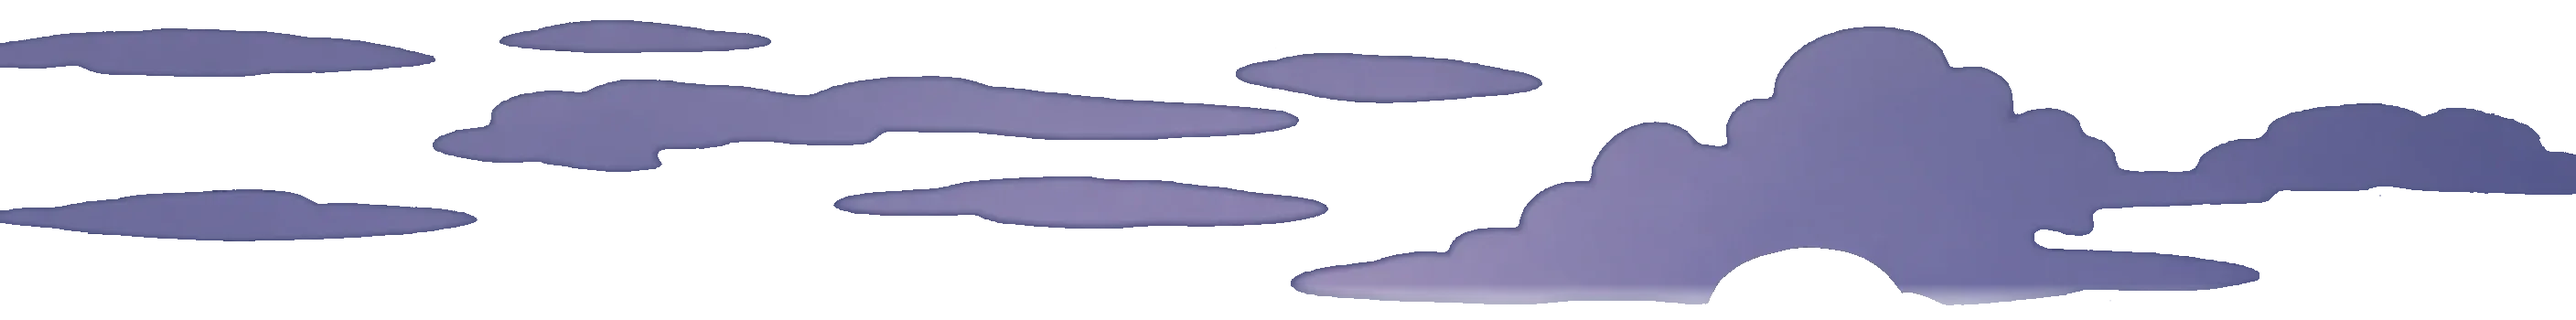
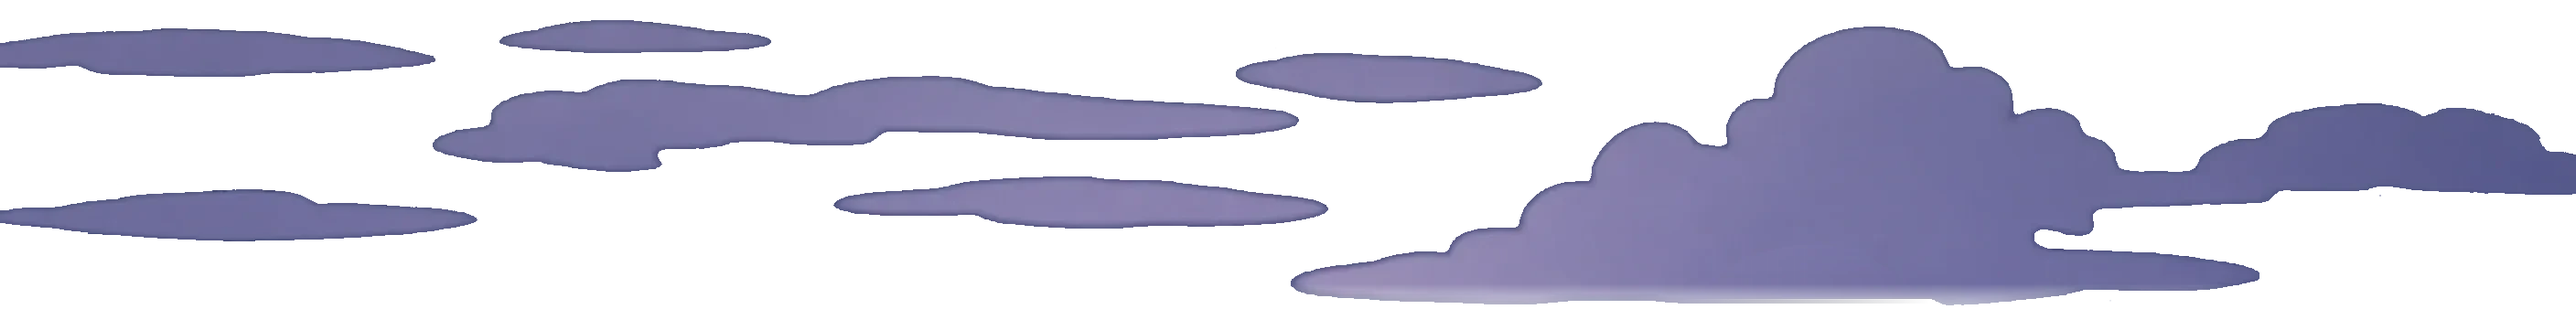
Tea room working copy, ending: the doorway's lamp comes on as the camera sets off, each stepping stone drawn once, the near garden whole on the walk-on
The veil, the room and the glow in the tea house's doorway now come on together over the first half screen of the
walk-on instead of in one 9 px step. On the way in the house plate's painted lawn and stones come down to the screen's
foot and the walk's drawn stones stay only below it, so no stone is drawn twice. Near trees and bushes keep their
walk's-end opacity until they leave the frame, and the dome cut out of the walk's cloud plate is filled.

Claude-Session: https://claude.ai/code/session_01H1qqxvg7NVfd4R6U8xEdiX

Changed region(s): [[0.6562, 0.7714, 0.75, 0.9714]]

diff --git a/public/labs/tea-room/working/assets/js/chapters/projects/scene.js b/public/labs/tea-room/working/assets/js/chapters/projects/scene.js
@@ -319,11 +319,14 @@ export function mount(host, options = {}) {
   // the doorway has come to cend, its place on the screen at the end. At e = 1 the doorway (HOUSE.hole) covers the
   // screen. state.house: where the house's plate is drawn ({ x, y, s }: its top left and its scale) and zh, look B's
   // measure of how large the house stands (diorama.js drawGarden: the plate's scale over max(W / 1700, H / 1019)).
-  let dz = 0, ZZ = 1;
+  // dm 0..1 (the door only): how far the house's painted lawn has taken over the ground in front of it. The plate's own
+  // stepping stones (the same painting as look B's sharp front) come down to the screen's foot, and the walk's drawn
+  // stones go where the plate is opaque, so each stone on the screen is drawn once.
+  let dz = 0, ZZ = 1, dm = 0, lastMask = '';
   function frame(q, time, pointer, cards, door) {
     if (!active) return state;
     if (!L) layout();
-    if (!door || !(door.e > 0 || door.c > 0)) { dz = 0; ZZ = 1; return frameAt(q, time, pointer, cards); }
+    if (!door || !(door.e > 0 || door.c > 0)) { dz = 0; ZZ = 1; dm = 0; return frameAt(q, time, pointer, cards); }
     const f0 = f, cx0 = cx, hY0 = hY;
     const k = L.kOf(clamp(q || 0)), cam = L.camAt(k), d0 = G.zHouse - cam.z;
     const sOf = (d) => f0 * HOUSE.hw / d / HOUSE.w;
@@ -334,9 +337,9 @@ export function mount(host, options = {}) {
     // the doorway's middle on the screen, from a camera d from the house (the walk's own projection, no lean)
     const at = (dd) => { const sc = sOf(dd); return [cx0 + f0 * (0 - cam.x) / dd - HOUSE.door * sc + hx * sc, hY0 + f0 * cam.y / dd - HOUSE.lawn * sc + hy * sc]; };
     const D0 = at(d0), D = at(d), cc = clamp(door.c), C = [D0[0] + (door.cend[0] - D0[0]) * cc, D0[1] + (door.cend[1] - D0[1]) * cc];
-    dz = d0 - d; ZZ = R / Rd;
+    dz = d0 - d; ZZ = R / Rd; dm = ss(1, 1.3, R);
     f = f0 * ZZ; cx = C[0] + ZZ * (cx0 - D[0]); hY = C[1] + ZZ * (hY0 - D[1]);
-    try { frameAt(q, time, null, cards); } finally { f = f0; cx = cx0; hY = hY0; dz = 0; ZZ = 1; }
+    try { frameAt(q, time, null, cards); } finally { f = f0; cx = cx0; hY = hY0; dz = 0; ZZ = 1; dm = 0; }
     state.door = { C: C, R: R, Rend: sEnd / s0 };
     return state;
   }
@@ -372,12 +375,17 @@ export function mount(host, options = {}) {
       const sx = gxs(0, d) - lean * 0.6, y = hY + f * camY / d - HOUSE.lawn * s;
       house.style.transform = 'translate3d(' + (sx - HOUSE.door * s).toFixed(1) + 'px,' + y.toFixed(1) + 'px,0) scale(' + s.toFixed(5) + ')';
       state.house = { x: sx - HOUSE.door * s, y: y, s: s, zh: s / Math.max(W / 1700, H / 1019) };
+      // (the plate's lawn: opaque to MA of its height, gone at MB; on the walk 36% and 62% (projects.css), on the way
+      // in through the door down to its foot)
+      const MA = 36 + dm * 48.8, MB = 62 + dm * 38, mk = dm > 0 ? 'linear-gradient(to bottom, #000 0, #000 ' + MA.toFixed(1) + '%, transparent ' + MB.toFixed(1) + '%), linear-gradient(to right, transparent 0, #000 22%, #000 78%, transparent 100%)' : '';
+      if (mk !== lastMask) { lastMask = mk; house.style.webkitMaskImage = mk; house.style.maskImage = mk; }
+      state.house.ma = y + MA / 100 * HOUSE.h * s; state.house.mb = y + MB / 100 * HOUSE.h * s;
     }
 
     // --- the ground: the lawn, the stepping stones, the light under the lit lantern, the petals
     const g = gx;
     // (the ground depends only on where the camera is: drawn again only when that changes)
-    const gk = k.toFixed(5) + ',' + W + ',' + H + ',' + dz.toFixed(4) + ',' + f.toFixed(2) + ',' + cx.toFixed(1) + ',' + hY.toFixed(1);
+    const gk = k.toFixed(5) + ',' + W + ',' + H + ',' + dz.toFixed(4) + ',' + f.toFixed(2) + ',' + cx.toFixed(1) + ',' + hY.toFixed(1) + ',' + dm.toFixed(4);
     if (gk !== lastKey) {
     lastKey = gk;
     g.setTransform(DPR, 0, 0, DPR, 0, 0); g.clearRect(0, 0, W, H);
@@ -422,7 +430,10 @@ export function mount(host, options = {}) {
         if (x + rx < 0 || x - rx > W || y - ry > H) continue;
         const fade = 1 - ss(FAR - 12, FAR, d);
         let warm = 0; if (lit) { const dd = Math.hypot(X - lit.lX, st.Z - lit.lZ); warm = (1 - ss(0.4, 2.6, dd)) * (1 - ss(0.3, 0.55, Math.abs(k - litI))); }
-        g.globalAlpha = fade;
+        // (on the way in, only below the plate's opaque lawn: where the plate fades out, these come in)
+        const own = dm > 0 ? 1 - dm * (1 - ss(state.house.ma + 0.8 * (state.house.mb - state.house.ma), state.house.mb, y - ry)) : 1;
+        if (own <= 0.002) continue;
+        g.globalAlpha = fade * own;
         g.fillStyle = '#0d1119'; g.beginPath(); g.ellipse(x, y + ry * 0.2, rx + 2, ry + 2, st.t * 0.2, 0, 6.3); g.fill();
         g.fillStyle = 'rgb(' + Math.round(lerp(44, 92, warm)) + ',' + Math.round(lerp(52, 80, warm)) + ',' + Math.round(lerp(64, 70, warm)) + ')';
         g.beginPath(); g.ellipse(x, y, rx, ry, st.t * 0.2, 0, 6.3); g.fill();
@@ -448,7 +459,10 @@ export function mount(host, options = {}) {
       const sc = f / d, hpx = t.h * sc, wpx = hpx * TREE.w / TREE.h;
       const sx = gxs(t.X, d) - lean * (t.row ? 0.5 : 0.25), sy = hY + camY * sc;
       const left = sx - (t.flip ? 1 - TREE.ax : TREE.ax) * wpx, topY = sy - TREE.ay * hpx;
-      const op = Math.round((1 - ss(FAR - 6, FAR + 6, d)) * ss(1.6, 3.4, d) * 50) / 50;
+      // (on the way in through the door the garden is the walk's last picture, walked into: what stood there stays
+      // whole until it has passed out of the frame, and nothing new comes up out of the lawn)
+      const op = dz > 0 ? Math.round((1 - ss(FAR - 6, FAR + 6, d + dz)) * ss(1.6, 3.4, d + dz) * ss(0.8, 1.1, d) * 50) / 50
+        : Math.round((1 - ss(FAR - 6, FAR + 6, d)) * ss(1.6, 3.4, d) * 50) / 50;
       if (op <= 0 || left > W + 10 || left + wpx < -10 || topY > H + 10) { hide(t); continue; }
       show(t); flats++;
       const s = hpx / (TREE.h / 2);
@@ -462,7 +476,8 @@ export function mount(host, options = {}) {
     // --- bushes close to the eye
     for (const b of bushes) {
       const d = b.Z - camZ;
-      const op = d > 0.9 && d < 5 ? Math.round(ss(1, 2, d) * (1 - ss(3.4, 5, d)) * 40) / 40 : 0;
+      const d1 = d + dz, op = dz > 0 ? (d > 0.9 && d1 < 5 ? Math.round(ss(1, 2, d1) * (1 - ss(3.4, 5, d1)) * ss(0.9, 1.15, d) * 40) / 40 : 0)
+        : d > 0.9 && d < 5 ? Math.round(ss(1, 2, d) * (1 - ss(3.4, 5, d)) * 40) / 40 : 0;
       if (op <= 0) { hide(b); continue; }
       const sc = f / d, wpx = b.w * sc, hpx = wpx * 250 / 550, left = gxs(b.X, d) - wpx / 2, topY = hY + camY * sc - hpx * 0.8;
       if (left > W || left + wpx < 0 || topY > H) { hide(b); continue; }

diff --git a/public/labs/tea-room/working/assets/js/chapters/ending/door.js b/public/labs/tea-room/working/assets/js/chapters/ending/door.js
@@ -4,9 +4,10 @@
 // in the doorway the lamplight (garden-veil.webp) thins and the back room is there behind it (ending/scene.js
 // roomScene), deeper than the door, so it grows more slowly; the warm glow round the door fades. Look B's thresholds,
 // on look B's measure of how large the house stands (zh).
-//   doorStack(parent, redraw) -> { frame(house, zh, room, t), hide(), ready() }
+//   doorStack(parent, redraw) -> { frame(house, zh, room, t, lit), hide(), ready() }
 //     house: where the walk draws its house plate ({ x, y, s }: top left and scale, the plate 2816 x 1297)
 //     room:  where the room plate stands ({ x, y, s }) and tall (a phone: the room's foot fades to the floor)
+//     lit:   0..1, the lamp in the doorway coming on as the camera sets off (the walk's plate has the doorway dark)
 import { roomScene } from './scene.js';
 
 var IMG = new URL('../../../img/', import.meta.url).href;
@@ -31,7 +32,8 @@ export function doorStack(parent, redraw) {
   var veil = pic(IMG + 'garden-veil.webp', 461, 488);
   var hi = pic(IMG + 'garden-doorhi.webp', 2816, 1584);
   // (the walk's house fades into the lawn below its middle: the sharp front takes the same fade)
-  var m = 'linear-gradient(to bottom, #000 53%, rgba(0, 0, 0, 0.45) 100%)';
+  // (over the plate's own lawn, opaque by then (projects/scene.js dm): the front fades into the same painting below it)
+  var m = 'linear-gradient(to bottom, #000 72%, transparent 100%)';
   hi.style.webkitMaskImage = m; hi.style.maskImage = m;
   var glow = document.createElement('div');
   glow.style.cssText = 'position:absolute;left:0;top:0;width:560px;height:560px;border-radius:50%;transform-origin:0 0;' +
@@ -44,25 +46,27 @@ export function doorStack(parent, redraw) {
 
   return {
     // t: seconds (the glow breathes as look B's does); returns true when the house's own front can no longer be seen
-    frame: function (house, zh, rm, t) {
+    frame: function (house, zh, rm, t, lit) {
       if (!shown) { box.style.visibility = 'inherit'; shown = true; }
       var X = function (v) { return house.x + v * house.s; }, Y = function (v) { return house.y + v * house.s; };
       // (sooner than look B's 1.25..1.7: the walk's plate is seen smaller, and its painted doorway is a dark patch close up)
       var a = ss(0.5, 0.85, zh);
       set(hi, 'opacity', a.toFixed(3), 'hio'); at(hi, X(HI[0]), Y(HI[1]), house.s / 4, 'hit');
-      var open = a >= 0.999;
-      // the room, only through the doorway, and only once the sharp front stands over the plate's painted door
+      // the lamplight and the room behind it, only through the doorway (the same hole in the plate and in the sharp
+      // front), coming on together as the camera sets off, never in one step
+      var L = Math.round(clamp(lit == null ? 1 : lit, 0, 1) * 500) / 500, open = L > 0;
       set(roomBox, 'visibility', open ? 'inherit' : 'hidden', 'rv');
+      set(roomBox, 'opacity', L < 1 ? L.toFixed(3) : '', 'ro');
       if (open) {
         var l = X(HOLE[0]), tp = Y(HOLE[1]), r = X(HOLE[2]), b = Y(HOLE[3]);
         set(roomBox, 'clipPath', 'inset(' + Math.max(0, tp).toFixed(1) + 'px ' + Math.max(0, roomBox.clientWidth - r).toFixed(1) + 'px ' + Math.max(0, roomBox.clientHeight - b).toFixed(1) + 'px ' + Math.max(0, l).toFixed(1) + 'px)', 'rc');
         room.put(rm, rm.tall);
       }
-      var vo = open ? 1 - ss(1.5, 6.5, zh) : 0;
+      var vo = L * (1 - ss(1.5, 6.5, zh));
       set(veil, 'visibility', vo > 0.002 ? 'inherit' : 'hidden', 'vv');
       if (vo > 0.002) { set(veil, 'opacity', vo.toFixed(3), 'vo'); at(veil, X(VEIL[0]), Y(VEIL[1]), house.s / 4, 'vt'); }
       var breathe = 0.9 + 0.06 * Math.sin(t * 1.26) + 0.02 * Math.sin(t * 2.9);
-      var go = Math.round(breathe * (1 - ss(2.5, 7, zh)) * a * 200) / 200;
+      var go = Math.round(breathe * (1 - ss(2.5, 7, zh)) * L * 200) / 200;
       set(glow, 'visibility', go > 0 ? 'inherit' : 'hidden', 'gv');
       if (go > 0) { set(glow, 'opacity', String(go), 'go'); at(glow, X(GLOW[0] - GLOW[2] / 2), Y(GLOW[1] - GLOW[2] / 2), house.s, 'gt'); }
       return zh > 2.7;

diff --git a/public/labs/tea-room/working/assets/js/chapters/projects.js b/public/labs/tea-room/working/assets/js/chapters/projects.js
@@ -135,7 +135,7 @@ export function mount(host, options) {
     if (ay < 0) zr = Math.max(zr, (C[1] - ht) / -ay);
     if (by > 0) zr = Math.max(zr, (hb - C[1]) / by);
     var rm = { x: C[0] + zr * (P1.x - cend[0]), y: C[1] + zr * (P1.y - cend[1]), s: P1.s * zr, tall: tall };
-    door.frame(st.house, st.house.zh, rm, tt);
+    door.frame(st.house, st.house.zh, rm, tt, ss(1.02, 1.5, st.door.R));
     // (what is drawn over the whole frame goes as the doorway fills it: the walk's vignette and its fireflies)
     var clear = (1 - ss(1.7, 6, st.house.zh)).toFixed(3);
     css(vig, 'opacity', clear); css(air, 'opacity', clear);
